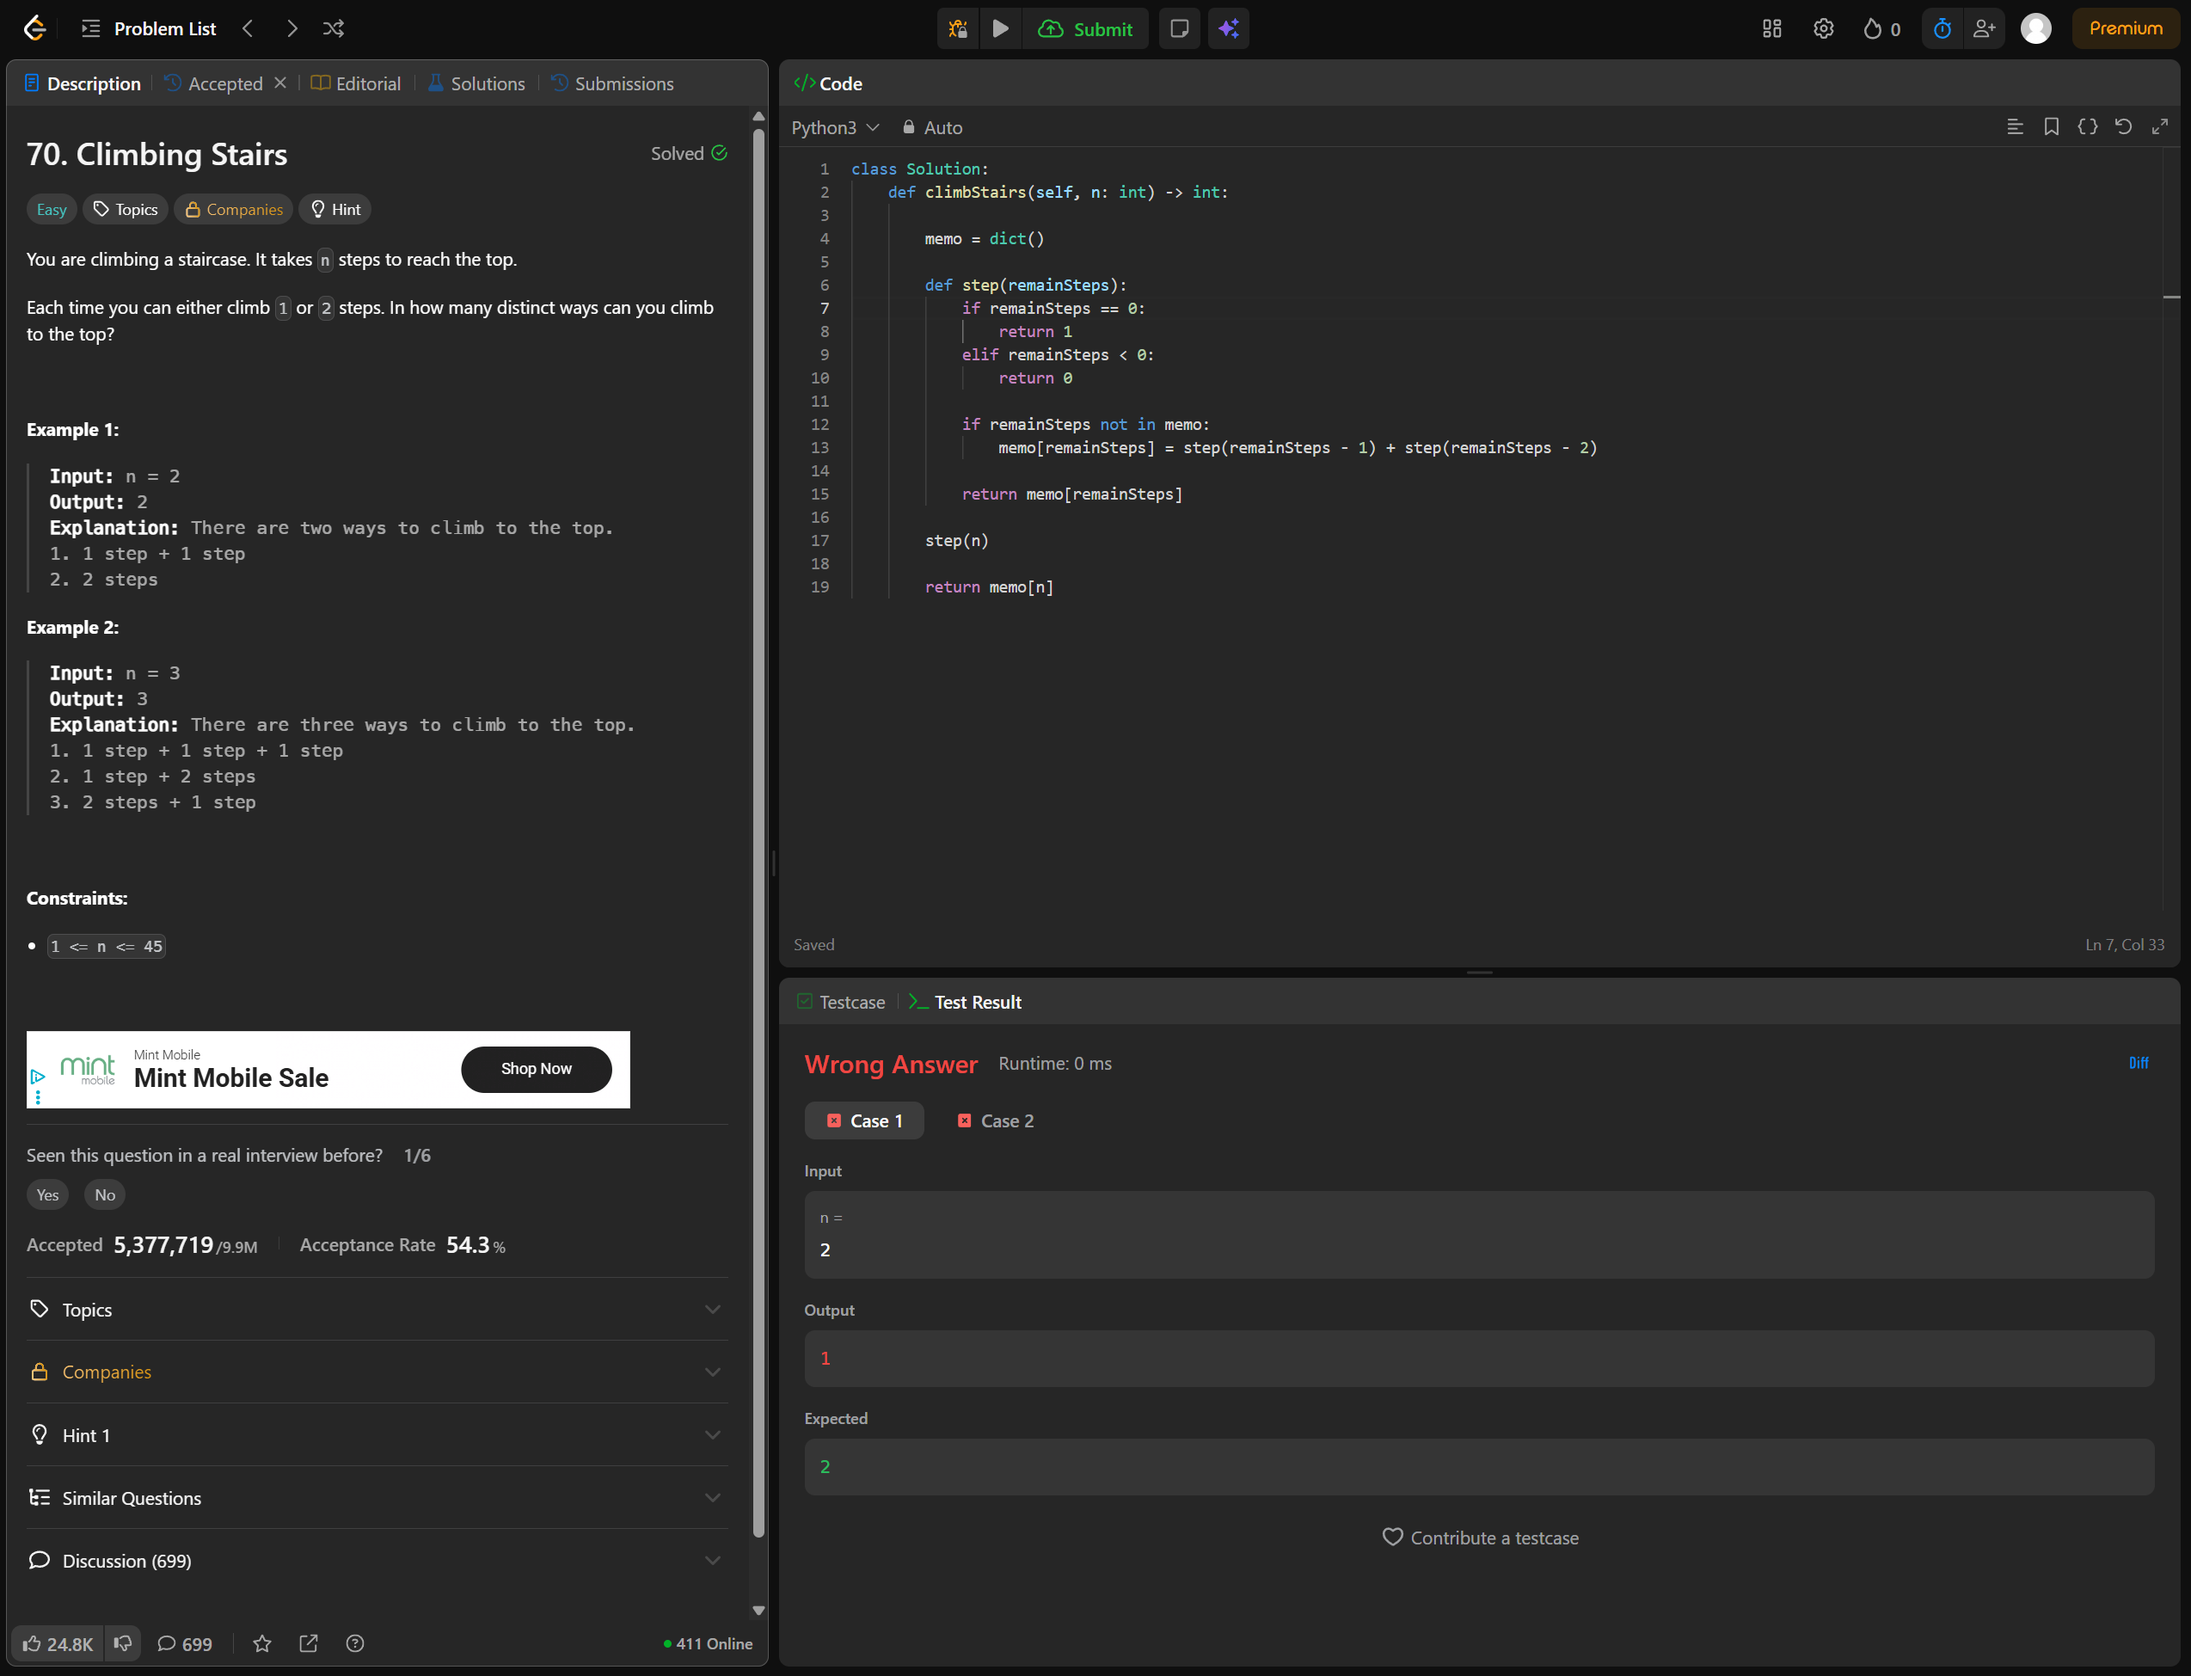
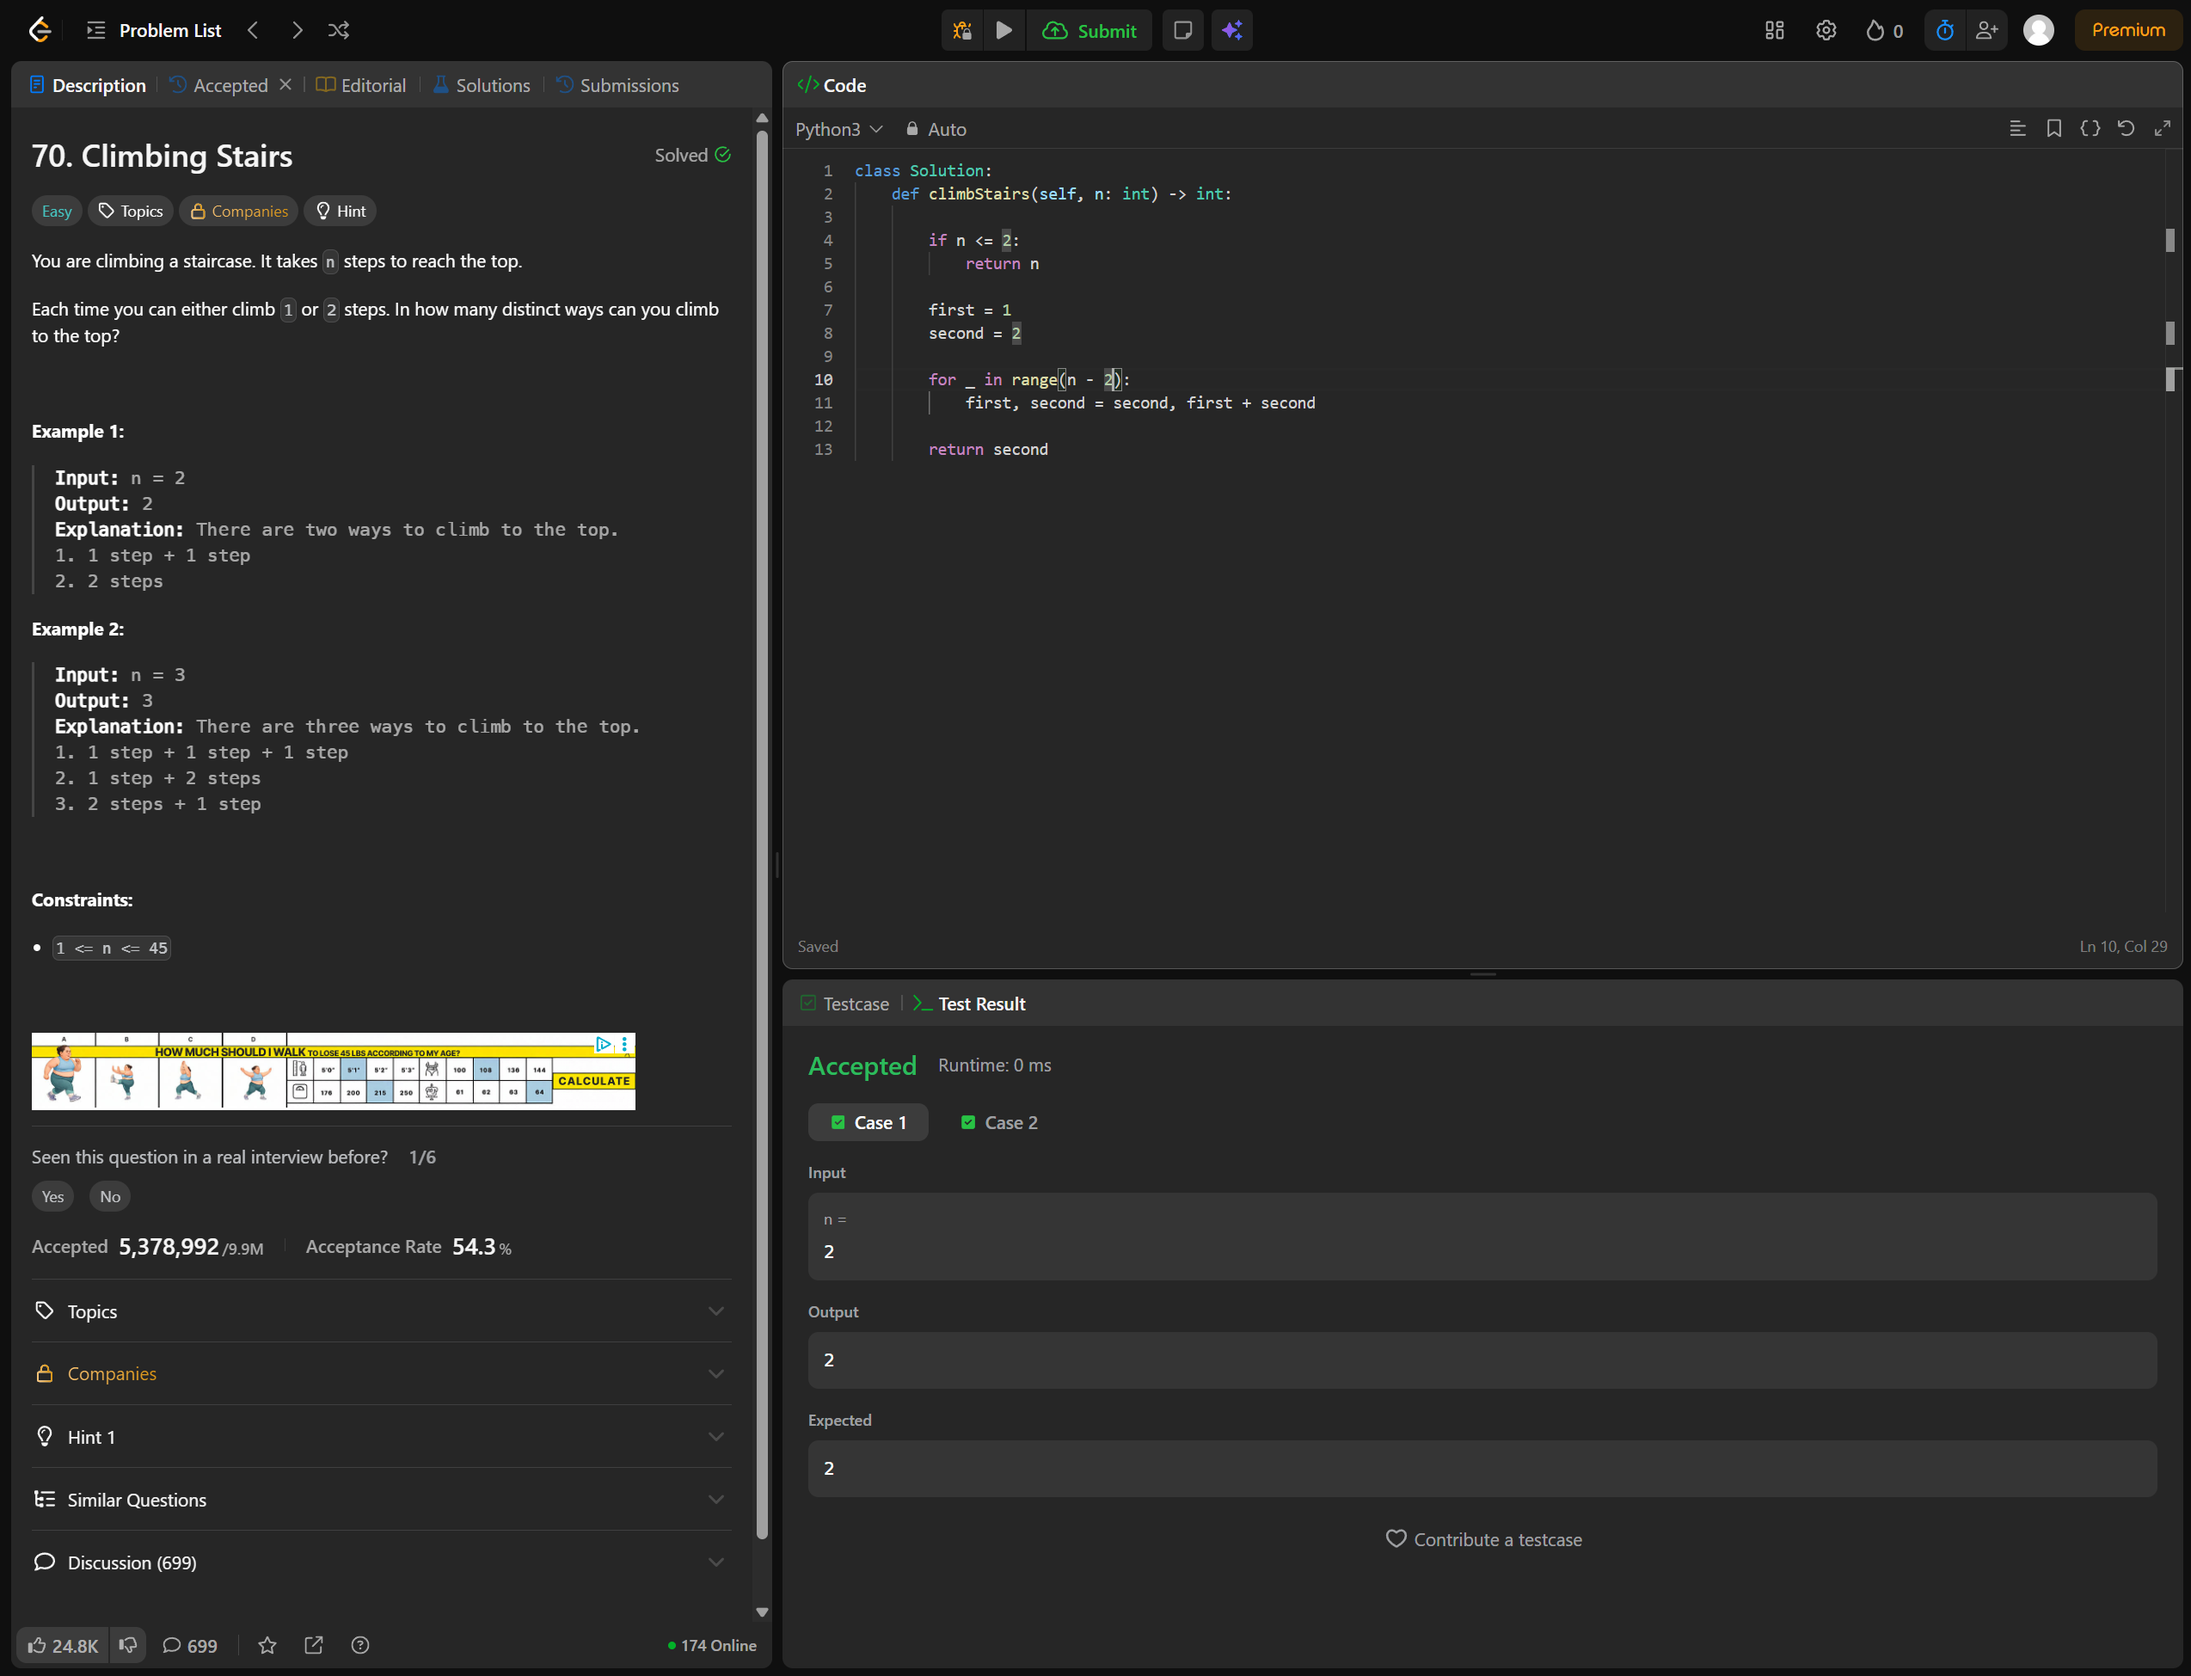
update 70. Climbing Stairs

diff --git a/Problems/Easy/70. Climbing Stairs/70. Climbing Stairs.py b/Problems/Easy/70. Climbing Stairs/70. Climbing Stairs.py
@@ -3,19 +3,13 @@
 class Solution:
     def climbStairs(self, n: int) -> int:
 
-        memo = dict()
+        if n <= 2:
+            return n
 
-        def step(remainSteps):
-            if remainSteps == 0:
-                return 1
-            elif remainSteps < 0:
-                return 0
+        first = 1
+        second = 2
 
-            if remainSteps not in memo:
-                memo[remainSteps] = step(remainSteps - 1) + step(remainSteps - 2)
+        for _ in range(3, n + 1):
+            first, second = second, first + second
 
-            return memo[remainSteps]
-
-        step(n)
-
-        return memo[n]
+        return second
